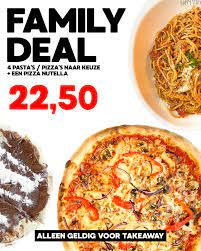
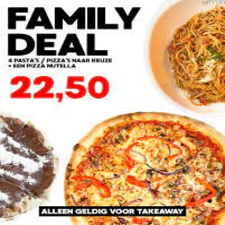
homepage responsive design

diff --git a/Website/public/index.html b/Website/public/index.html
@@ -10,6 +10,7 @@
     <link rel="stylesheet" href="https://cdnjs.cloudflare.com/ajax/libs/font-awesome/6.3.0/css/all.min.css"
         integrity="sha512-SzlrxWUlpfuzQ+pcUCosxcglQRNAq/DZjVsC0lE40xsADsfeQoEypE+enwcOiGjk/bSuGGKHEyjSoQ1zVisanQ=="
         crossorigin="anonymous" referrerpolicy="no-referrer" />
+
     <title>Happy Italy</title>
 </head>
 
@@ -31,9 +32,9 @@
     <div class="grid-container">
 
         <div class="main">
-            <div class="slider">
+            <div class="slider" id="slider">
                 <div class="slide active">
-                    <img src="./img/vacatures.png">
+                    <img src="./img/vacatures.png" id="imgSlider">
                 </div>
                 <div class="slide">
                     <img src="./img/cinemadeals.png">
@@ -43,35 +44,40 @@
                 </div>
             </div>
             <div class="info">
-                <div class="history">
-                    <br>
-                    <h3>Geschiedenis van Happy Italy</h3>
-                    <br>
-                    <p>Lorem ipsum dolor sit amet, consectetur adipiscing elit. Nullam id urna bibendum, iaculis odio a,
-                        viverra felis. Pellentesque habitant morbi tristique senectus et netus et malesuada fames ac
-                        turpis egestas. Nullam dignissim cursus mi malesuada consequat. Proin in pharetra lacus. Aliquam
-                        id dapibus elit. Cras luctus fermentum ante, sit amet elementum turpis condimentum non. Vivamus
-                        finibus pharetra orci. Maecenas eleifend pretium magna at varius. Aenean ut augue eu ex lacinia
-                        viverra vitae eu ex. Nullam consectetur ac quam id pretium.
-                        Ut vitae urna ut dolor fermentum aliquet. In at congue erat. Morbi rhoncus nibh nibh, at
-                        tincidunt magna rhoncus sit amet. Quisque ornare fermentum egestas. Proin tincidunt fringilla
-                        turpis, sed cursus dui commodo laoreet. Integer egestas interdum eros, ac maximus tellus.
-                        Pellentesque mattis maximus blandit. Phasellus pulvinar at diam et scelerisque. Quisque laoreet,
-                        turpis a pharetra placerat, dui ante dapibus arcu, a mattis sapien nisl ac risus. Vivamus
-                        tristique ullamcorper massa in tempus.</p>
+                <div class="infoContainer">
+                    <div class="history">
+                        <br>
+                        <h3>Geschiedenis van Happy Italy</h3>
+                        <br>
+                        <p>
+                            Lorem ipsum dolor sit amet, consectetur adipiscing elit. Nullam id urna bibendum, iaculis odio a,
+                            viverra felis. Pellentesque habitant morbi tristique senectus et netus et malesuada fames ac
+                            turpis egestas. Nullam dignissim cursus mi malesuada consequat. Proin in pharetra lacus. Aliquam
+                            id dapibus elit. Cras luctus fermentum ante, sit amet elementum turpis condimentum non. Vivamus
+                            finibus pharetra orci. Maecenas eleifend pretium magna at varius. Aenean ut augue eu ex lacinia
+                            viverra vitae eu ex. Nullam consectetur ac quam id pretium.
+                            Ut vitae urna ut dolor fermentum aliquet. In at congue erat. Morbi rhoncus nibh nibh, at
+                            tincidunt magna rhoncus sit amet. Quisque ornare fermentum egestas. Proin tincidunt fringilla
+                            turpis, sed cursus dui commodo laoreet. Integer egestas interdum eros, ac maximus tellus.
+                            Pellentesque mattis maximus blandit. Phasellus pulvinar at diam et scelerisque. Quisque laoreet,
+                            turpis a pharetra placerat, dui ante dapibus arcu, a mattis sapien nisl ac risus. Vivamus
+                            tristique ullamcorper massa in tempus.
+                        </p>
+                    </div>
+                    <!-- <div class="ons">
+                        <br>
+                        <h3>Over Ons</h3>
+                        <br>
+                        <p>Deze website is gemaakt door: </p>
+                        <br>
+                        <li>Valentijn</li>
+                        <li>Jinle</li>
+                        <li>Zeya</li>
+                        <br>
+                        <p>Gemaakt als project voor het vak Beroeps.</p>
+                    </div> -->
                 </div>
-                <div class="ons">
-                    <br>
-                    <h3>Over Ons</h3>
-                    <br>
-                    <p>Deze website is gemaakt door: </p>
-                    <br>
-                    <li>Valentijn</li>
-                    <li>Jinle</li>
-                    <li>Zeya</li>
-                    <br>
-                    <p>Gemaakt als project voor het vak Beroeps.</p>
-                </div>
+
                 <div class="ads">
                     <img src="./img/familydeals.png" id="ad1">
                     <img src="./img/2gangen.png" id="ad2">
@@ -91,6 +97,7 @@
     <!-- NAVBAR DROPDOWN -->
     <script src="./script.js"></script>
     <script src="./navbar/navbar.js"></script>
+    <script>kaasblokje()</script>
 </body>
 
 </html>

diff --git a/Website/public/style.css b/Website/public/style.css
@@ -4,6 +4,8 @@
     overflow-x: hidden;
 }
 
+:root {
+}
 
 
 header {
@@ -26,6 +28,7 @@ header {
         'main main main main main main'
         'footer footer footer footer footer footer';
     grid-template-rows: auto 15vh;
+    min-height: 88vh;
 }
 
 
@@ -68,8 +71,10 @@ header {
     background-color: red;
 }
 
-.slider {
-    grid-area: slider;
+/* .slider {
+    grid-row: 1;
+    grid-column-start: 1;
+    grid-column-end: 3s;
 }
 
 .info {
@@ -86,21 +91,18 @@ header {
 
 .ons {
     grid-area: ons;
-}
+} */
 
 .main {
-    display: grid;
-    grid-template-areas:
-        'slider slider slider slider slider'
-        'info info info info info';
-    grid-template-rows: 50vh auto;
+    display: flex;
+    flex-direction: column;
     gap: 10px;
 }
 
 .slider {
     position: relative;
     width: 100%;
-    height: 100%;
+    height: var(--slider-height);
     overflow: hidden;
 }
 
@@ -112,9 +114,10 @@ header {
     top: 0;
     left: 0;
     width: 100%;
-    height: 100%;
+    height: fit-content;
     margin-top: 0vh;
     opacity: 0;
+    /* max-height: 260px; */
     transition: opacity 1s ease-in-out;
 }
 
@@ -127,7 +130,7 @@ header {
     overflow: hidden;
     width: 100%;
     height: 100%;
-    object-fit: cover;
+    object-fit:scale-down;
 }
 
 @keyframes imageSlider {
@@ -181,7 +184,6 @@ header {
     display: flex;
     justify-content: space-around;
     gap: 10px;
-    margin-left: 5px;
 }
 
 .history {
@@ -204,22 +206,44 @@ header {
 
 #ad1 {
     border: 1px solid black;
-    width: 30%;
+    width: 33%;
     height: 99%;
 }
 
 #ad2 {
     border: 1px solid black;
-    width: 35%;
+    width: 33%;
     height: 99%;
 }
 
 #ad3 {
     border: 1px solid black;
-    width: 35%;
+    width: 33%;
     height: 99%;
 }
 
 .footer {
     background-image: url(./img/headerBG.png);
+}
+
+.infoContainer {
+    width: 50vw;
+}
+.infoContainer>* {
+    width: 100%;
+    height: 100%;
+}
+
+@media(max-width: 992px) {
+    .info {
+        display: block;
+    }
+    .infoContainer {
+        width: 95vw;
+        margin-left: 2.5vw;
+    }
+
+    .infoContainer>* {
+        width: 100%;
+    }
 }

diff --git a/Website/public/script.js b/Website/public/script.js
@@ -1,9 +1,22 @@
 var slides = document.querySelectorAll('.slide');
 var currentSlide = 0;
 var slideInterval = setInterval(nextSlide, 3000);
+let slidesRoot = document.getElementById("slider");
+var r = document.querySelector(':root');
+let img = document.getElementById("imgSlider");
 
 function nextSlide() {
     slides[currentSlide].className = 'slide';
     currentSlide = (currentSlide + 1) % slides.length;
     slides[currentSlide].className = 'slide active';
+}
+
+addEventListener("resize", () => {
+    console.log(img.offsetHeight);
+    r.style.setProperty('--slider-height', img.offsetHeight + "px");
+})
+
+function kaasblokje(){
+    console.log(img.offsetHeight);
+    r.style.setProperty('--slider-height', img.offsetHeight + "px");
 }
